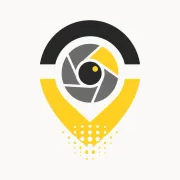
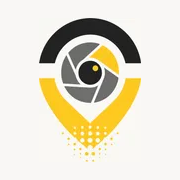
アプリアイコンを新しいロゴ画像に差し替える
線が太く小さいサイズでも潰れない版に更新する。
元絵は余白が6割を占めるため、切り落としてから正方形に置き直す。

- アイコンの元素材を public/brand/cocos-app-icon.webp として追加
- ファビコンも同じロゴから生成して見た目を揃える
- 差し替えを確実に反映させるため ?v= を上げる

Changed region(s): [[0.1944, 0.0833, 0.8056, 0.9167]]

diff --git a/index.html b/index.html
@@ -2,12 +2,13 @@
 <html lang="ja">
   <head>
     <meta charset="UTF-8" />
-    <link rel="icon" type="image/png" href="/brand/cocos-icon.png" />
+    <link rel="icon" type="image/png" sizes="32x32" href="/icons/favicon-32.png?v=2" />
+    <link rel="icon" type="image/png" sizes="48x48" href="/icons/favicon-48.png?v=2" />
     <meta name="viewport" content="width=device-width, initial-scale=1.0" />
     <meta name="theme-color" content="#ffd21f" />
     <!-- ホーム画面に追加したときのアイコンと名前（未指定だとタイトル全文が使われる） -->
     <!-- Safari はアイコンを強くキャッシュするため、差し替え時は ?v= を上げる -->
-    <link rel="apple-touch-icon" sizes="180x180" href="/apple-touch-icon.png?v=2" />
+    <link rel="apple-touch-icon" sizes="180x180" href="/apple-touch-icon.png?v=3" />
     <meta name="apple-mobile-web-app-title" content="CoCoS" />
     <meta name="mobile-web-app-capable" content="yes" />
     <link rel="manifest" href="/manifest.webmanifest" />
